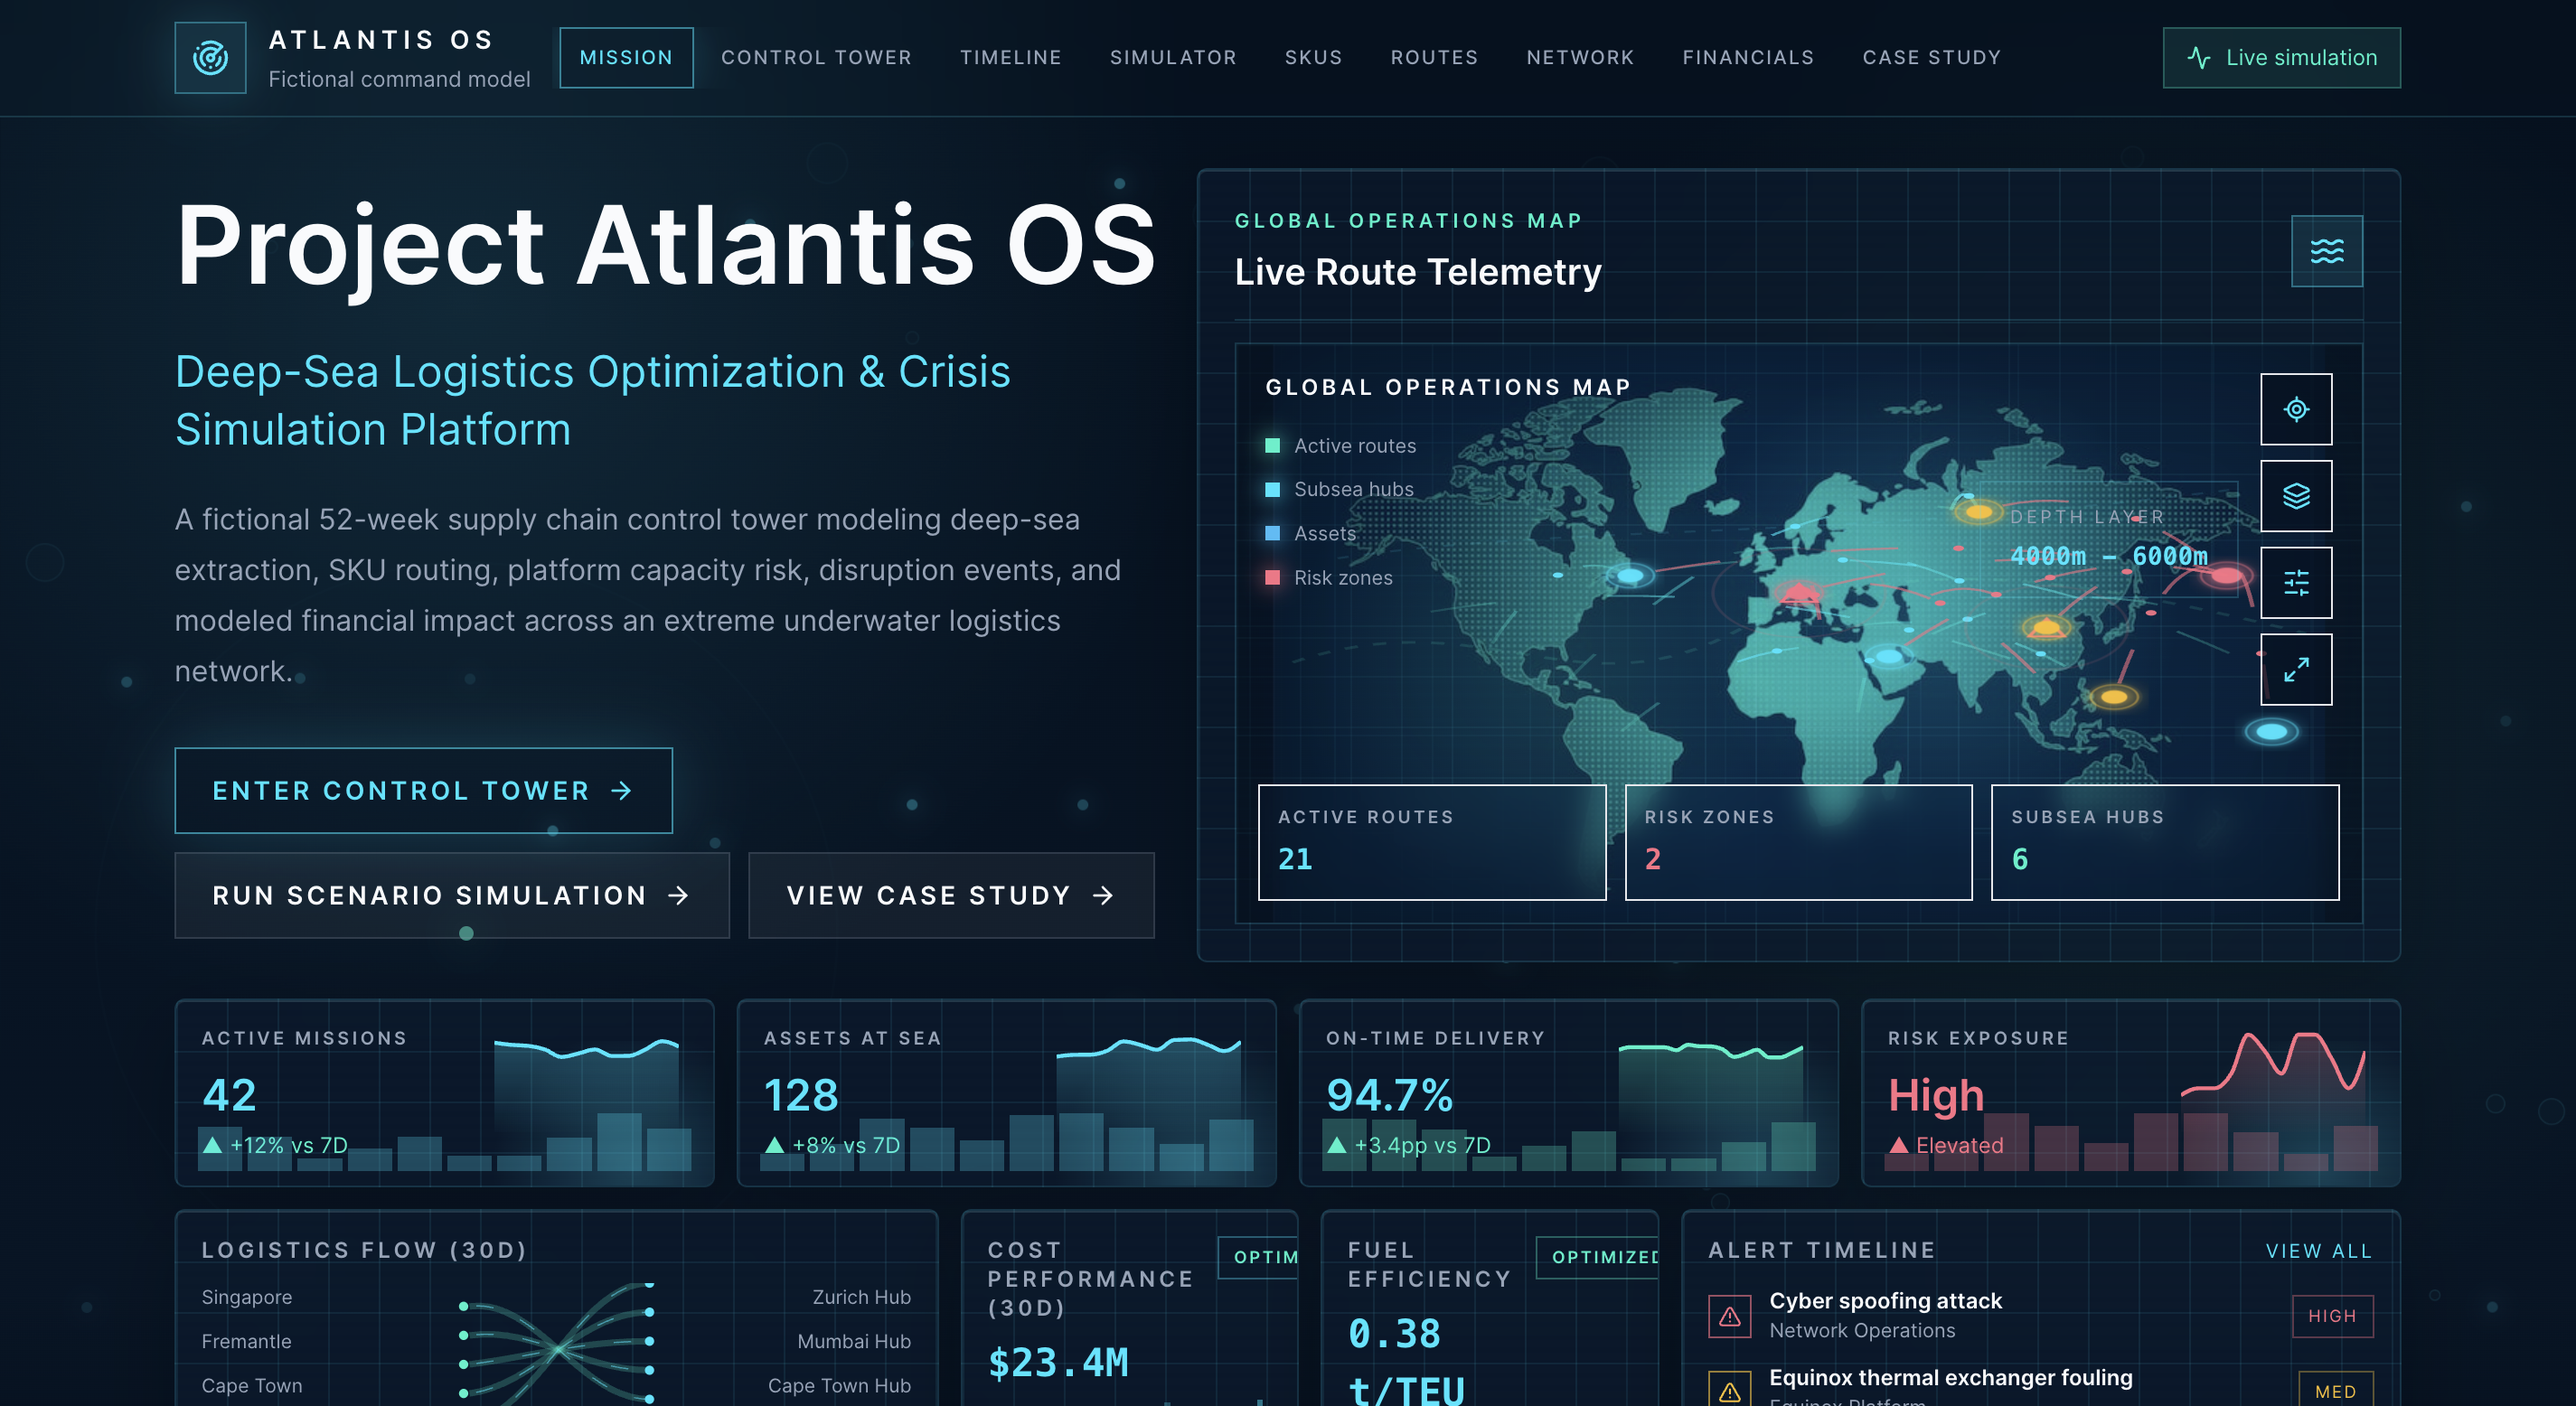
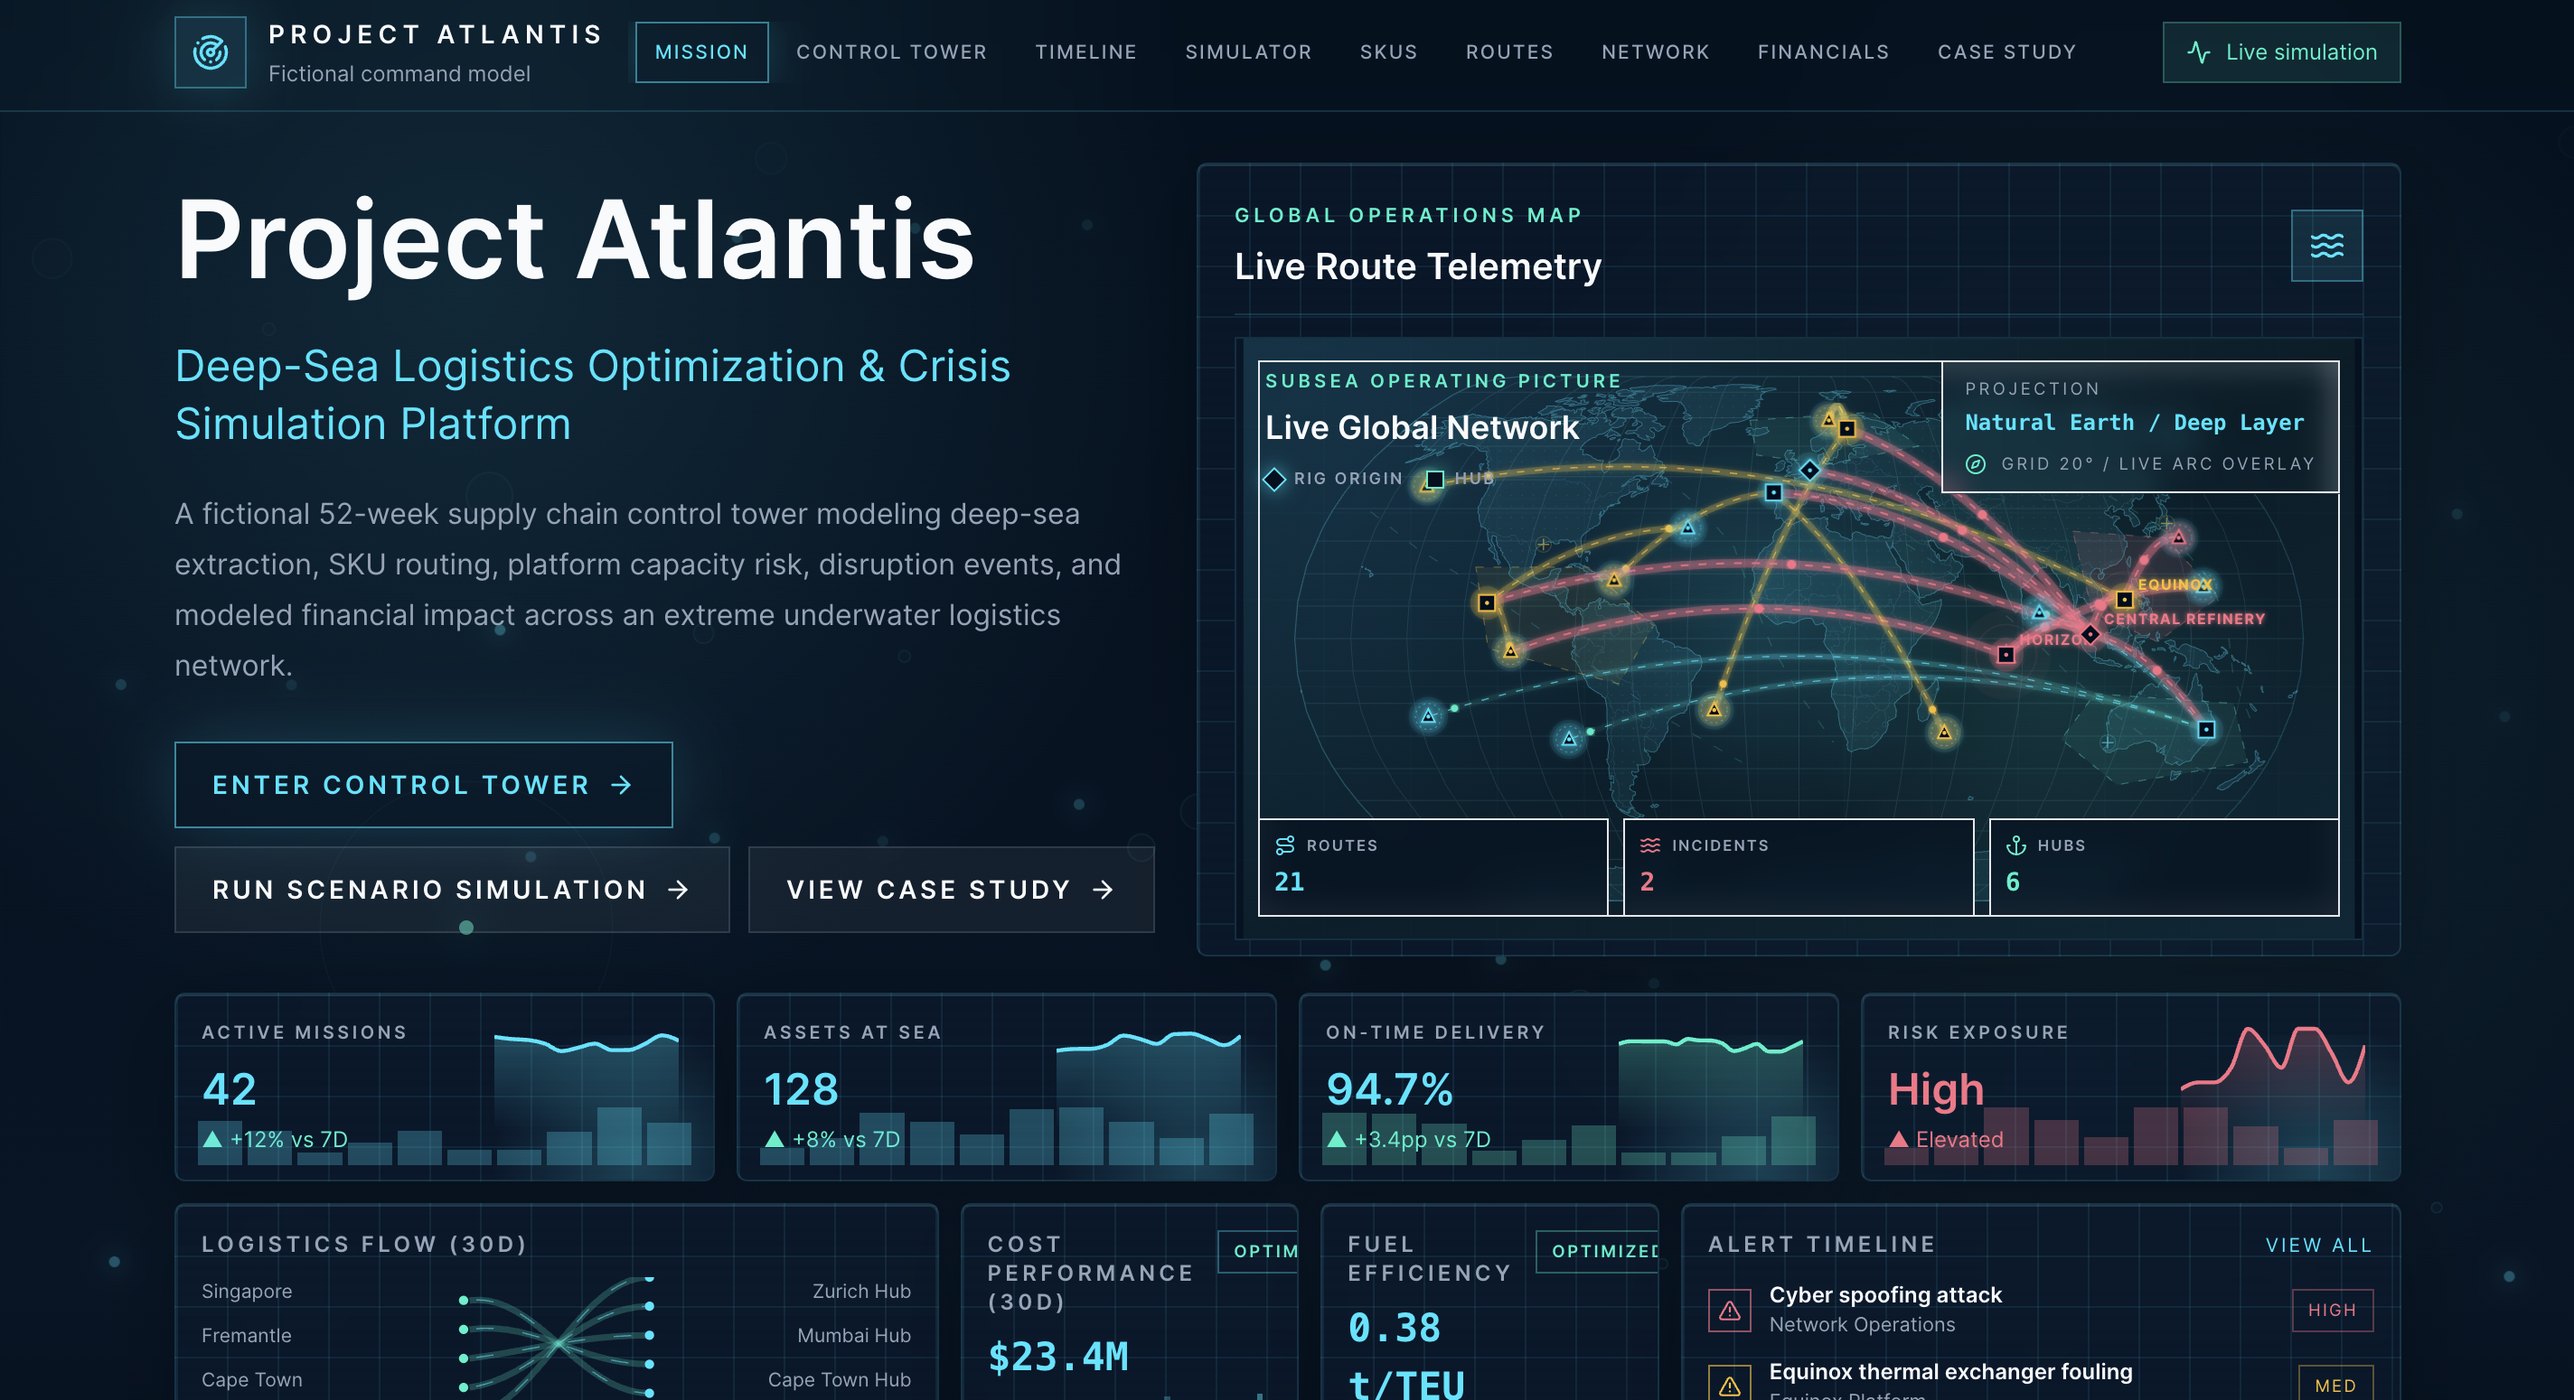
skills

diff --git a/src/components/Skills.tsx b/src/components/Skills.tsx
@@ -1,25 +1,99 @@
-const skillGroups = [
+import type { CSSProperties } from 'react';
+
+type Skill = {
+  name: string;
+  logo?: string;
+  initials?: string;
+  tone?: string;
+};
+
+type SkillGroup = {
+  title: string;
+  description: string;
+  skills: Skill[];
+};
+
+const iconUrl = (slug: string, color = 'ffffff') => `https://cdn.simpleicons.org/${slug}/${color}`;
+
+const skillGroups: SkillGroup[] = [
   {
-    title: 'Analysis',
-    description: 'Data cleaning, modeling, and business questions.',
-    skills: ['SQL', 'BigQuery', 'Python', 'R', 'Excel', 'Regression', 'A/B Testing', 'Feature Engineering'],
+    title: 'Analytics & Modeling',
+    description: 'Core tools for cleaning data, modeling outcomes, and explaining business drivers.',
+    skills: [
+      { name: 'SQL (BigQuery, MySQL)', logo: iconUrl('googlebigquery', '669DF6'), initials: 'SQL', tone: '#669df6' },
+      { name: 'Python', logo: iconUrl('python', '3776AB'), initials: 'PY', tone: '#3776ab' },
+      { name: 'R', logo: iconUrl('r', '276DC3'), initials: 'R', tone: '#276dc3' },
+      {
+        name: 'Excel',
+        logo: 'https://upload.wikimedia.org/wikipedia/commons/7/73/Microsoft_Excel_2013-2019_logo.svg',
+        initials: 'XL',
+        tone: '#217346',
+      },
+      {
+        name: 'Tableau',
+        logo: 'https://cdn.worldvectorlogo.com/logos/tableau-software.svg',
+        initials: 'TB',
+        tone: '#e97627',
+      },
+      { name: 'Statistical Analysis', initials: 'Σ', tone: '#e9b949' },
+      { name: 'Predictive Modeling', initials: 'PM', tone: '#8bc34a' },
+      { name: 'Regression Analysis', initials: 'RA', tone: '#d94b38' },
+      { name: 'Data Visualization', initials: 'DV', tone: '#1f5eff' },
+      { name: 'A/B Testing', initials: 'A/B', tone: '#13b8a6' },
+      { name: 'ERP Systems', initials: 'ERP', tone: '#b96f45' },
+      { name: 'Optimization', initials: 'OPT', tone: '#f59e0b' },
+      { name: 'Scenario Planning', initials: 'SP', tone: '#14f1c9' },
+    ],
   },
   {
-    title: 'Visualization',
-    description: 'Dashboards and reporting that make decisions easier.',
-    skills: ['Tableau', 'Dashboard Design', 'KPI Design', 'Storytelling', 'Executive Reporting', 'Data QA'],
+    title: 'Technical Build',
+    description: 'Front-end and integration skills for turning analysis into usable products.',
+    skills: [
+      { name: 'React', logo: iconUrl('react', '61DAFB'), initials: 'RX', tone: '#61dafb' },
+      { name: 'TypeScript', logo: iconUrl('typescript', '3178C6'), initials: 'TS', tone: '#3178c6' },
+      { name: 'JavaScript', logo: iconUrl('javascript', 'F7DF1E'), initials: 'JS', tone: '#f7df1e' },
+      { name: 'HTML/CSS', logo: iconUrl('html5', 'E34F26'), initials: 'H/C', tone: '#e34f26' },
+      { name: 'REST APIs', initials: 'API', tone: '#14f1c9' },
+      { name: 'GitHub', logo: iconUrl('github', 'ffffff'), initials: 'GH', tone: '#ffffff' },
+    ],
   },
   {
-    title: 'Product + Build',
-    description: 'Useful when insight needs to become an interface or workflow.',
-    skills: ['React', 'TypeScript', 'JavaScript', 'Tailwind CSS', 'REST APIs', 'Accessibility', 'Supabase'],
-  },
-  {
-    title: 'Operating Style',
-    description: 'How I keep analytical work practical with teams.',
-    skills: ['Stakeholder Communication', 'Experiment Readouts', 'Agile/Scrum', 'Documentation', 'Google Suite', 'PowerPoint'],
+    title: 'Supporting Tools',
+    description: 'Collaboration, creative, and workflow tools that support polished delivery.',
+    skills: [
+      { name: 'Supabase', logo: iconUrl('supabase', '3ECF8E'), initials: 'SB', tone: '#3ecf8e' },
+      {
+        name: 'Adobe Creative Cloud',
+        logo: 'https://cdn.worldvectorlogo.com/logos/creative-cloud-cc.svg',
+        initials: 'CC',
+        tone: '#da1f26',
+      },
+      { name: 'Google Suite', logo: iconUrl('google', '4285F4'), initials: 'G', tone: '#4285f4' },
+      {
+        name: 'Generative AI',
+        logo: 'https://upload.wikimedia.org/wikipedia/commons/4/4d/OpenAI_Logo.svg',
+        initials: 'AI',
+        tone: '#ffffff',
+      },
+      { name: 'Agile/Scrum', initials: 'AS', tone: '#e9b949' },
+    ],
   },
 ];
+
+const SkillPill = ({ skill }: { skill: Skill }) => {
+  return (
+    <span className="skill-pill" style={{ '--skill-tone': skill.tone ?? '#e9b949' } as CSSProperties}>
+      <span className="skill-logo-bubble">
+        {skill.logo ? (
+          <img src={skill.logo} alt="" loading="lazy" />
+        ) : (
+          <span>{skill.initials ?? skill.name.slice(0, 2).toUpperCase()}</span>
+        )}
+      </span>
+      <span>{skill.name}</span>
+    </span>
+  );
+};
 
 const Skills = () => {
   return (
@@ -39,11 +113,9 @@ const Skills = () => {
                   <p className="mt-2 text-sm leading-6 text-white/62">{group.description}</p>
                 </div>
 
-                <div className="flex flex-wrap gap-2">
+                <div className="skill-pill-grid">
                   {group.skills.map((skill) => (
-                    <span key={skill} className="chip-dark">
-                      {skill}
-                    </span>
+                    <SkillPill key={skill.name} skill={skill} />
                   ))}
                 </div>
               </div>

diff --git a/src/index.css b/src/index.css
@@ -299,6 +299,65 @@ section[id] {
     border-bottom: 0;
   }
 
+  .skill-pill-grid {
+    display: flex;
+    flex-wrap: wrap;
+    gap: 0.7rem;
+  }
+
+  .skill-pill {
+    display: inline-flex;
+    align-items: center;
+    gap: 0.65rem;
+    border: 1px solid rgba(255, 255, 255, 0.2);
+    background:
+      linear-gradient(135deg, rgba(255, 255, 255, 0.12), rgba(255, 255, 255, 0.045)),
+      rgba(255, 255, 255, 0.06);
+    padding: 0.42rem 0.8rem 0.42rem 0.45rem;
+    color: white;
+    font-size: 0.76rem;
+    font-weight: 850;
+    line-height: 1;
+    text-transform: uppercase;
+    border-radius: 999px;
+    box-shadow: inset 0 1px 0 rgba(255, 255, 255, 0.08);
+    transition: transform 180ms ease, border-color 180ms ease, background 180ms ease;
+  }
+
+  .skill-pill:hover {
+    transform: translateY(-2px);
+    border-color: color-mix(in srgb, var(--skill-tone, var(--yellow)) 58%, white 18%);
+    background:
+      radial-gradient(circle at 18% 50%, color-mix(in srgb, var(--skill-tone, var(--yellow)) 26%, transparent), transparent 2.2rem),
+      rgba(255, 255, 255, 0.1);
+  }
+
+  .skill-logo-bubble {
+    display: grid;
+    height: 2rem;
+    width: 2rem;
+    flex: 0 0 auto;
+    place-items: center;
+    border: 1px solid color-mix(in srgb, var(--skill-tone, var(--yellow)) 64%, white 12%);
+    background:
+      radial-gradient(circle at 35% 25%, rgba(255, 255, 255, 0.24), transparent 45%),
+      color-mix(in srgb, var(--skill-tone, var(--yellow)) 18%, rgba(255, 255, 255, 0.08));
+    border-radius: 999px;
+  }
+
+  .skill-logo-bubble img {
+    height: 1.05rem;
+    width: 1.05rem;
+    object-fit: contain;
+  }
+
+  .skill-logo-bubble span {
+    color: color-mix(in srgb, var(--skill-tone, var(--yellow)) 74%, white 26%);
+    font-size: 0.62rem;
+    font-weight: 950;
+    letter-spacing: 0.02em !important;
+  }
+
   .modal-surface {
     @apply mx-auto flex max-h-[92vh] max-w-6xl flex-col overflow-hidden border border-[var(--line)] bg-[var(--cream)] text-[var(--ink)];
     border-radius: 8px;
